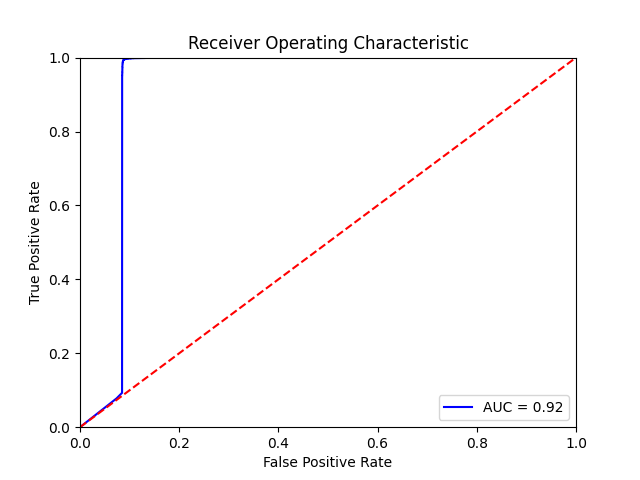
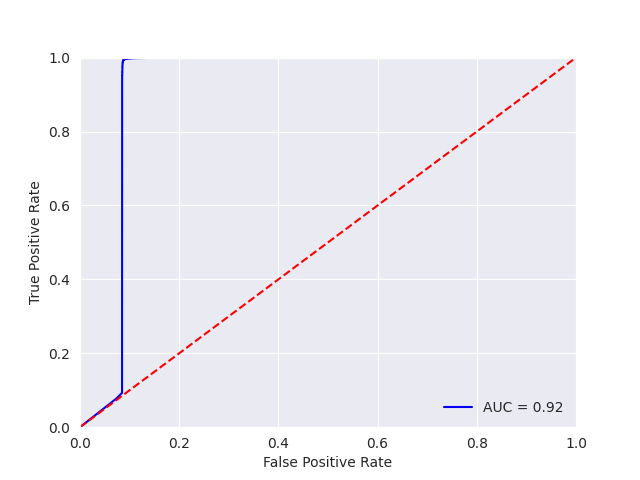
added seaborn template for speechbrain as well

diff --git a/speechbrain/benchmarks/get_pairs.py b/speechbrain/benchmarks/get_pairs.py
@@ -159,6 +159,8 @@ def write_to_file(l1, l2, l3, fname):
 
 
 def plot_roc():
+    import seaborn as sns
+    sns.set_style("darkgrid")
     scores = np.load("vc1/scores.npy")
     n = scores.shape[0]
     scores = list(scores)
@@ -169,9 +171,10 @@ def plot_roc():
     roc_auc = metrics.auc(fpr, tpr)
 
     import matplotlib.pyplot as plt
-    plt.title('Receiver Operating Characteristic')
+    #plt.title('Receiver Operating Characteristic')
     plt.plot(fpr, tpr, 'b', label = 'AUC = %0.2f' % roc_auc)
     plt.legend(loc = 'lower right')
+    plt.legend(frameon=False)
     plt.plot([0, 1], [0, 1],'r--')
     plt.xlim([0, 1])
     plt.ylim([0, 1])
@@ -187,6 +190,8 @@ def plot_roc():
     '''
 
 def custom_plot_roc():
+    import seaborn as sns
+    sns.set_style("darkgrid")
     t_scores = np.load("vc1/scores.npy")
     scores = np.load("vc1/scores.npy")
     n = scores.shape[0]
@@ -247,5 +252,5 @@ def check_inter_scores():
 if __name__ == "__main__":
     #main()
     plot_roc()
-    custom_plot_roc()
+    #custom_plot_roc()
     #check_inter_scores()
